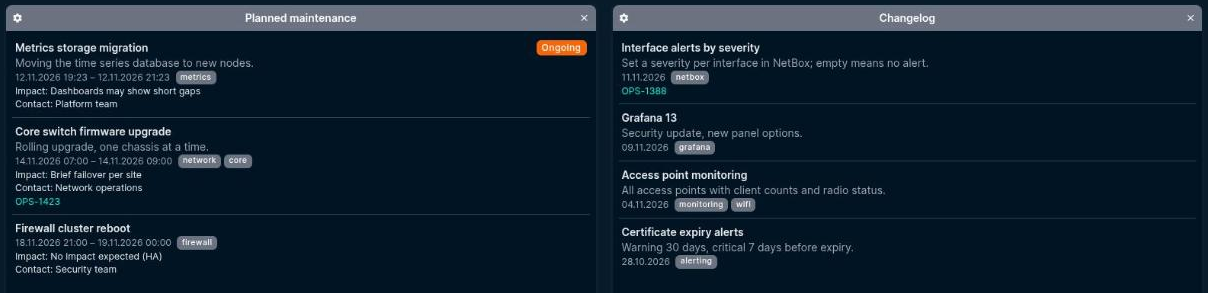
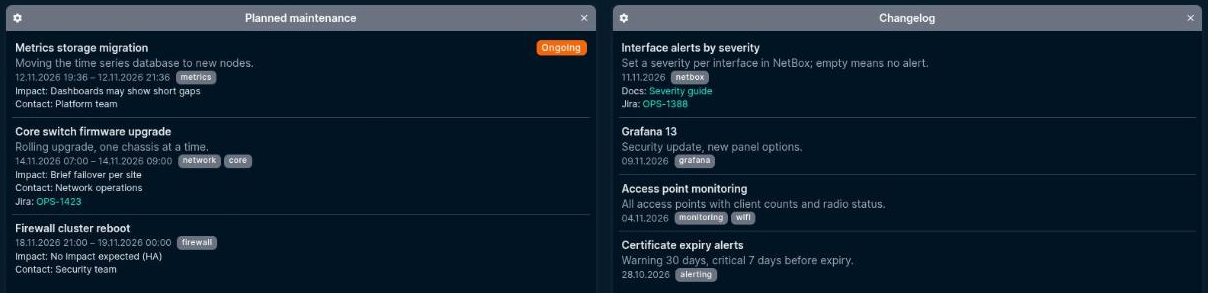
generic links in fields (markdown, bare urls), drop jira special case

Changed region(s): [[0.4901, 0.2765, 0.9801, 0.9829], [0.0613, 0.2457, 0.1838, 0.2765], [0.0, 0.6758, 0.0919, 0.7065]]

diff --git a/netbox_grafana_annotations/templates/netbox_grafana_annotations/widget.html b/netbox_grafana_annotations/templates/netbox_grafana_annotations/widget.html
@@ -26,14 +26,9 @@
             {% for t in e.tags %}<span class="badge text-bg-secondary ms-1">{{ t }}</span>{% endfor %}
           {% endif %}
         </div>
-        {% for line in e.details %}
-          <div class="small">{{ line }}</div>
+        {% for d in e.details %}
+          <div class="small">{% if d.label %}{{ d.label }}: {% endif %}{% for p in d.parts %}{% if p.url %}<a href="{{ p.url }}" target="_blank" rel="noopener noreferrer">{{ p.text }}</a>{% else %}{{ p.text }}{% endif %}{% endfor %}</div>
         {% endfor %}
-        {% if e.links %}
-          <div class="small">
-            {% for l in e.links %}<a href="{{ l.url }}" target="_blank" rel="noopener noreferrer">{{ l.label }}</a>{% if not forloop.last %} · {% endif %}{% endfor %}
-          </div>
-        {% endif %}
       </div>
     {% empty %}
       <div class="list-group-item text-muted">

diff --git a/netbox_grafana_annotations/grafana.py b/netbox_grafana_annotations/grafana.py
@@ -46,7 +46,23 @@ def plain_lines(html):
     return [p for p in parts if p]
 
 
-RESERVED = {"title", "summary", "url", "jira"}
+RESERVED = {"title", "summary", "url"}
+_LINK = re.compile(r"\[([^\]]+)\]\(([^)\s]+)\)|(https?://[^\s,]+)")
+
+
+def parts(text, base=None):
+    """Split text into [{"text", "url"}]: Markdown links and bare http(s) URLs become links."""
+    out, pos = [], 0
+    for m in _LINK.finditer(text):
+        if m.start() > pos:
+            out.append({"text": text[pos:m.start()], "url": None})
+        label, target, bare = m.groups()
+        url = safe_url(target or bare, base)
+        out.append({"text": label or bare, "url": url} if url else {"text": m.group(0), "url": None})
+        pos = m.end()
+    if pos < len(text):
+        out.append({"text": text[pos:], "url": None})
+    return out
 FIRST = ("impact", "contact")
 
 
@@ -61,14 +77,14 @@ def _scalar(value):
     return ""
 
 
-def fields(data):
-    """Further data fields as "Key: value" lines, impact and contact first, nested values skipped."""
+def fields(data, base=None):
+    """Further data fields as {"label", "parts"}, impact and contact first, nested values skipped."""
     keys = [k for k in FIRST if k in data] + sorted(k for k in data if k not in RESERVED and k not in FIRST)
     out = []
     for key in keys:
         value = _scalar(data[key])
         if value:
-            out.append(f"{key.replace('_', ' ').capitalize()}: {value}")
+            out.append({"label": key.replace("_", " ").capitalize(), "parts": parts(value, base)})
     return out
 
 
@@ -80,9 +96,9 @@ def normalize(annotation, now_ms, base_url=None, hide_tags=(), show_fields=True)
     """
     Turn a Grafana annotation into a display entry.
 
-    Structured fields in annotation["data"] win (title, url, impact, contact,
-    jira: [{key, url}]); otherwise the first text line is the title and the
-    rest are details.
+    Structured fields in annotation["data"] win: title, summary, url and any
+    further plain field as "Key: value" (Markdown links and bare URLs become
+    links). Otherwise the first text line is the title and the rest are details.
     """
     data = annotation.get("data") or {}
     if not isinstance(data, dict):
@@ -92,9 +108,10 @@ def normalize(annotation, now_ms, base_url=None, hide_tags=(), show_fields=True)
     title = data.get("title") or (lines[0] if lines else "")
     summary = data.get("summary") if isinstance(data.get("summary"), str) else ""
     if data.get("title"):
-        details = fields(data) if show_fields else []
+        details = fields(data, base_url) if show_fields else []
     else:
-        details = [line for line in lines[1:] if line != "Details" and " · " not in line]
+        details = [{"label": None, "parts": [{"text": line, "url": None}]}
+                   for line in lines[1:] if line != "Details" and " · " not in line]
 
     url = safe_url(data.get("url"), base_url)
     if not url and annotation.get("dashboardUID"):
@@ -102,11 +119,6 @@ def normalize(annotation, now_ms, base_url=None, hide_tags=(), show_fields=True)
         if annotation.get("panelId"):
             path += f"?viewPanel={annotation['panelId']}"
         url = safe_url(path, base_url)
-
-    links = []
-    for item in data.get("jira") or []:
-        if isinstance(item, dict) and safe_url(item.get("url")):
-            links.append({"label": item.get("key") or item["url"], "url": item["url"]})
 
     start = annotation.get("time")
     end = annotation.get("timeEnd")
@@ -118,7 +130,6 @@ def normalize(annotation, now_ms, base_url=None, hide_tags=(), show_fields=True)
         "summary": summary,
         "details": details,
         "url": url,
-        "links": links,
         "tags": [t for t in annotation.get("tags") or [] if t not in hide_tags],
         "start": _ts(start),
         "end": _ts(end),

diff --git a/tests/test_grafana.py b/tests/test_grafana.py
@@ -21,12 +21,12 @@ def test_structured_data():
         "time": NOW - 1000, "timeEnd": NOW + 1000, "tags": ["maintenance", "aci"],
         "text": "<b>ignored</b>",
         "data": {"title": "ACI Exporter", "url": f"{BASE}/d/x", "impact": "Gaps",
-                 "contact": "Ops", "jira": [{"key": "T-1", "url": "https://jira/T-1"}]},
+                 "contact": "Ops", "jira": ["[T-1](https://jira/T-1)"]},
     }, NOW, BASE, hide_tags={"maintenance"})
     assert e["title"] == "ACI Exporter" and e["active"]
-    assert e["details"] == ["Impact: Gaps", "Contact: Ops"]
+    assert [d["label"] for d in e["details"]] == ["Impact", "Contact", "Jira"]
+    assert e["details"][2]["parts"] == [{"text": "T-1", "url": "https://jira/T-1"}]
     assert e["summary"] == ""
-    assert e["links"] == [{"label": "T-1", "url": "https://jira/T-1"}]
     assert e["tags"] == ["aci"]
 
 
@@ -36,17 +36,17 @@ def test_text_fallback_and_relative_url():
         "text": "Deploy &amp; restart<br>second line<br><a href='/x'>Details</a>",
     }, NOW, BASE)
     assert e["title"] == "Deploy & restart"
-    assert e["details"] == ["second line"]
+    assert [d["parts"][0]["text"] for d in e["details"]] == ["second line"]
     assert e["url"] == f"{BASE}/d/abc?viewPanel=3"
     assert e["end"] is None and not e["active"]
 
 
 def test_unsafe_urls_dropped():
     e = grafana.normalize({
-        "time": NOW, "data": {"title": "x", "url": "javascript:alert(1)",
-                              "jira": [{"key": "k", "url": "javascript:x"}]},
+        "time": NOW, "data": {"title": "x", "url": "javascript:alert(1)", "ref": "[k](javascript:x)"},
     }, NOW, None)
-    assert e["url"] is None and e["links"] == []
+    assert e["url"] is None
+    assert e["details"][0]["parts"] == [{"text": "[k](javascript:x)", "url": None}]
 
 
 def test_entries_order():
@@ -60,5 +60,17 @@ def test_summary_and_extra_fields():
             "nested": {"x": 1}, "contact": "Ops", "on_call": True}
     e = grafana.normalize({"time": NOW, "data": data}, NOW)
     assert e["summary"] == "one line"
-    assert e["details"] == ["Contact: Ops", "On call: yes", "Owner: A, B", "Prio: high"]
+    assert [(d["label"], d["parts"][0]["text"]) for d in e["details"]] == [
+        ("Contact", "Ops"), ("On call", "yes"), ("Owner", "A, B"), ("Prio", "high")]
     assert grafana.normalize({"time": NOW, "data": data}, NOW, show_fields=False)["details"] == []
+
+
+def test_parts_links():
+    p = grafana.parts("see [Overview](/d/abc), https://x.example/a and text", BASE)
+    assert p == [
+        {"text": "see ", "url": None},
+        {"text": "Overview", "url": f"{BASE}/d/abc"},
+        {"text": ", ", "url": None},
+        {"text": "https://x.example/a", "url": "https://x.example/a"},
+        {"text": " and text", "url": None},
+    ]

diff --git a/netbox_grafana_annotations/__init__.py b/netbox_grafana_annotations/__init__.py
@@ -1,6 +1,6 @@
 from netbox.plugins import PluginConfig
 
-__version__ = "0.1.3"
+__version__ = "0.2.0"
 
 
 class GrafanaAnnotationsConfig(PluginConfig):

diff --git a/README.md b/README.md
@@ -9,7 +9,7 @@ NetBox fetches the annotations server-side (the Grafana token never reaches the 
 ## Install
 
 ```sh
-pip install git+https://github.com/zebbra/netbox-grafana-annotations.git@v0.1.3
+pip install git+https://github.com/zebbra/netbox-grafana-annotations.git@v0.2.0
 ```
 
 ```python
@@ -66,12 +66,13 @@ Annotations written by automation can carry structured fields in `data`, which t
     "url": "https://grafana.example.com/d/maintenance/maintenance",
     "impact": "Short gaps in ACI metrics",
     "contact": "Jane Doe",
-    "jira": [{"key": "OPS-123", "url": "https://jira.example.com/browse/OPS-123"}]
+    "jira": ["[OPS-123](https://jira.example.com/browse/OPS-123)"],
+    "runbook": "https://wiki.example.com/runbook/aci"
   }
 }
 ```
 
-`summary` is shown as a grey line below the title. Every further field with a plain value or a list of plain values is listed as `Key: value` (`impact` and `contact` first, nested objects skipped), unless «Show fields» is off.
+`summary` is shown as a grey line below the title. Every further field with a plain value or a list of plain values is listed as `Key: value` (`impact` and `contact` first, nested objects skipped), unless «Show fields» is off. Markdown links (`[text](url)`) and bare URLs in values become links; relative ones are resolved against `grafana_public_url`.
 
 Only `http(s)` URLs are rendered as links.
 
